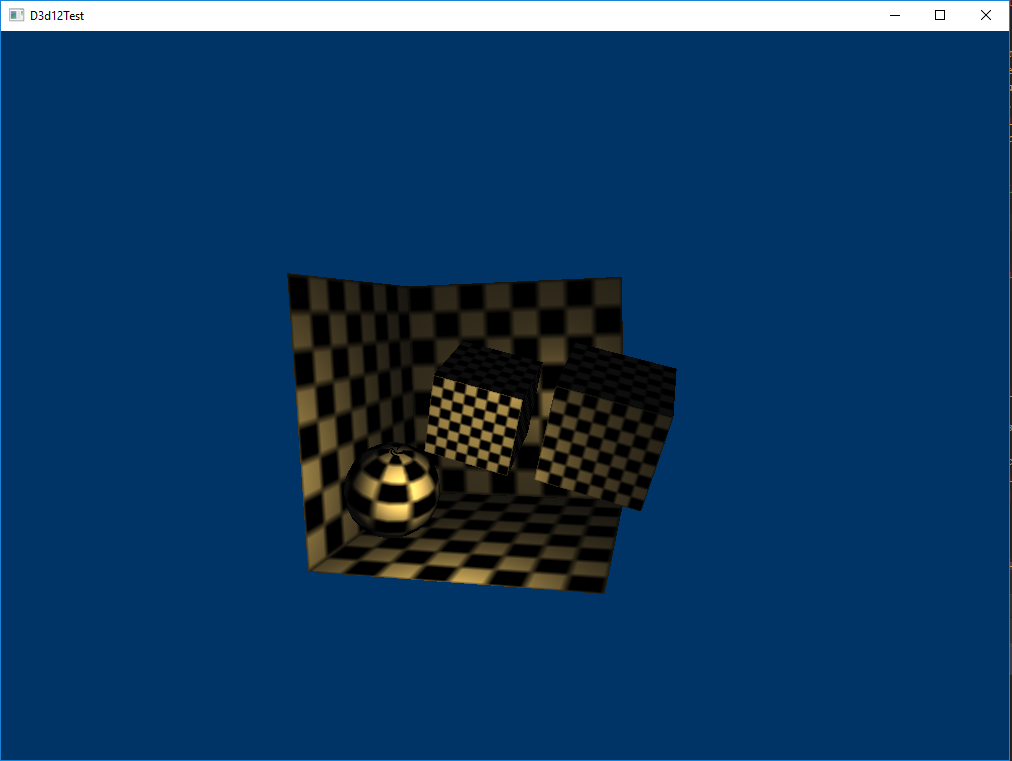
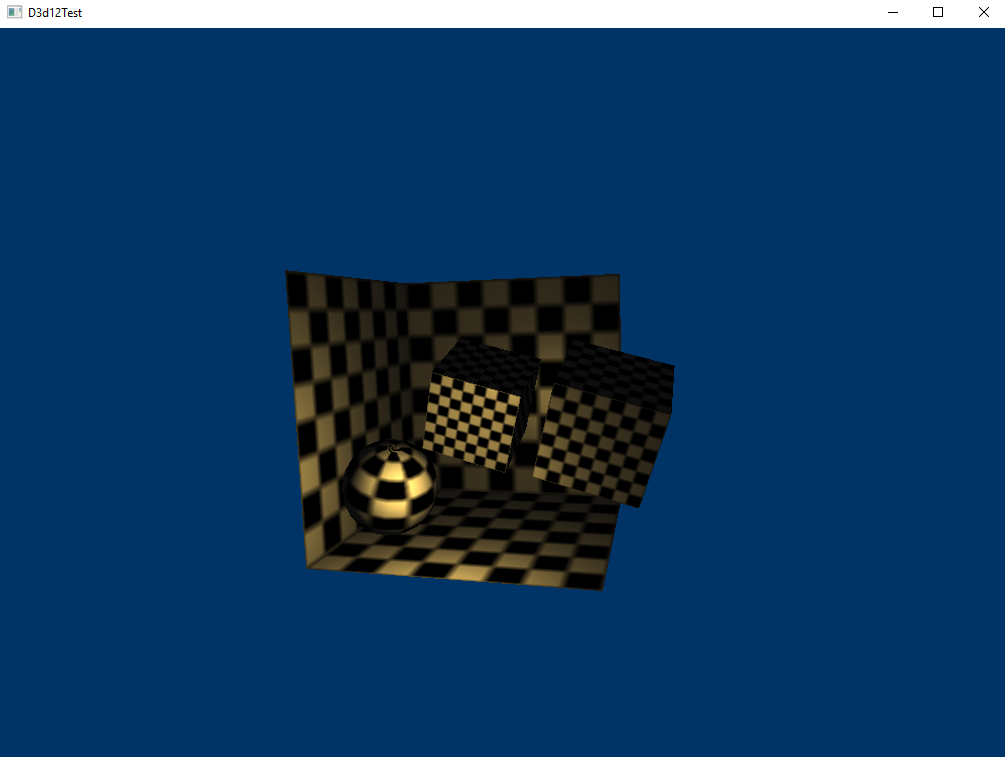
Added rBEA debugger portfolio modal. Updated Bachelor's thesis portfolio content. Fixed DirectX12Test image.

Changed region(s): [[0.0, 0.0, 1.0, 1.0], [0.3701, 0.4861, 0.6478, 0.6684]]

diff --git a/index.html b/index.html
@@ -193,6 +193,18 @@
             </div>
         </div>
 
+        <div class="col-sm-4 portfolio-item">
+            <div class="portfolio-link" href="#debugger" data-toggle="modal">
+                <div class="caption">
+                    <div class="caption-content">
+                        <i class="fa fa-search-plus fa-3x"></i>
+                    </div>
+                </div>
+                <img class="img-fluid" src="img/portfolio/debugger_400x400.png" alt="">
+            </a>
+        </div>
+    </div>
+
         </div>
       </div>
 
@@ -496,7 +508,41 @@
                             <p>I managed to simulate up to one million particles on the GPU before falling below a framerate of 60 frames per second. I also found that the number of particles scales really well
                               on the GPU.</p>
                             <p>The project was written from scratch in C++, particles were rendered in DirectX 11 and simulated in DirectCompute shaders.</p>
+                            <p>The following is an excerpt of the abstract of the thesis:</p>
+                            <p><i>
+                              Context: Fluid-particle systems are seldom used in games, the apparent performance costs of simulating a fluid-particle system discourages the developer to implement a system of such.
+                              The processing power delivered by a modern GPU enables the developer to implement complex particle systems such as fluid-particle systems.
+                              Writing efficient fluid-particle systems is the key when striving for real-time fluid-particle simulations with good scalability.
+                            </i></p>
+                            <p><i>
+                              Objectives: This thesis ultimately tries to provide the reader with a well-performing and scalable fluid-particle system simulated in real-time using a great number of particles.
+                              The fluid-particle system implements two different fluid physics models for diversity and comparison purposes.
+                              The fluid-particle system will then be measured for each fluid physics model and provide results to educate the reader on how well the performance of a fluid-particle system might
+                                scale with the increase of active particles in the simulation.
+                              Finally, a performance comparison of the particle scalability is made by completely excluding the fluid physics calculations and simulate the particles using only gravity as
+                                an affecting force to be able to demonstrate how taxing the fluid physics calculations are on the GPU.
+                              </i></p>
+                            <p><i>
+                              Methods: The fluid-particle system has been run using different simulation scenarios, where each scenario is defined by the amount of particles
+                              being active and the dimensions of our fluid particle simulation space.
+                              The performance results from each scenario has then been saved and put into a collection of results for a given simulation space.
+                            </i></p>
+                            <p><i>
+                              Results: The results presented demonstrate how well the fluid-particle system actually scales being run on a modern GPU.
+                              The system reached over a million particles while still running at an acceptable frame rate, for both of the fluid physics models.
+                              The results also shows that the performance is greatly reduced by simulating the particle system as a fluid-particle one, instead of only running it with gravity applied.
+                            </i></p>
+                            <p><i>
+                              Conclusions: With the results presented, we are able to conclude that fluid-particle systems scale well with the number of particles being active, while being run on a modern GPU.
+                              There are many optimizations to be done to be able to achieve a well-performing fluid-particle system, when developing fluid-particle system you
+                              should be wary of the many performance pitfalls that comes with it.
+                            </i></p>
+                            <p><i>
+                              Keywords: Fluid-particle system, GPGPU, DirectCompute, fluid physics model
+                            </i></p>
+
                             <p>The source code of this project can be found on my <a href="https://github.com/hyzor/BachelorsThesis">personal GitHub page</a>.</p>
+                            <p>The thesis can be found <a href="https://www.dropbox.com/s/thar5xmasfgd777/BTH2014Hansson%20Falkenby.pdf?dl=0">here</a>.</p>
                             <ul class="list-inline item-details">
                                 <li>Client:
                                     <strong><a href="https://www.bth.se/">Blekinge Institute of Technology</a>
@@ -690,7 +736,7 @@
                           <h2>DirectX 12 Test</h2>
                           <hr class="star-primary">
                           <img src="img/portfolio/DirectX12Test_window.PNG" class="img-fluid img-centered" alt="">
-                          <p>Source code can be found on my <a href="https://github.com/hyzor/DirectX12Test">personal GitHub page</a></p>
+                          <p>Source code can be found on my <a href="https://github.com/hyzor/DirectX12Test">personal GitHub page</a>.</p>
                           <ul class="list-inline item-details">
                               <li>Client:
                                   <strong><a href="">None</a>
@@ -712,6 +758,77 @@
           </div>
       </div>
   </div>
+</div>
+
+<div class="portfolio-modal modal fade" id="debugger" tabindex="-1" role="dialog" aria-hidden="true">
+  <div class="modal-dialog" role="document">
+    <div class="modal-content">
+      <div class="close-modal" data-dismiss="modal">
+            <div class="lr">
+                <div class="rl">
+                </div>
+            </div>
+        </div>
+        <div class="container">
+            <div class="row">
+                <div class="col-lg-12 col-lg-offset-2">
+                    <div class="modal-body">
+                        <h2>Master's thesis - Debugger</h2>
+                        <hr class="star-primary">
+                        <img src="img/portfolio/debugger.png" class="img-fluid img-centered" alt="">
+
+                        <p>The following is an excerpt from the abstract of the thesis:</p>
+                        <p><i>
+                          Debugging is a fundamental tool for software developers, it is therefore included in the majority of modern integrated development environments available today.
+                          When the capabilities of such debuggers are to be implemented in a debugging tool for a clustered, real-time stream processing system, the task becomes very complex.
+                          Knowledge on how to build debuggers for such systems is missing, and there is a need for these types of tools in the emerging real-time data stream processing industry.
+                         </i></p>
+
+                        <p><i>
+                          This thesis explores ways to implement and find usages of a debugging tool in a clustered, real-time processing environment.
+                          In previous research two papers were of particular interest as to form a basis for this thesis.
+                          However, these papers do not target real-time stream processing systems, so the knowledge gap still persists.
+                          It was found that these types of systems have extended requirements in addition to the functionality debuggers of today that has to be fulfilled.
+                        </i></p>
+
+                        <p><i>
+                          The first requirement found was that shared states has to be represented in some way in the tool, and multiple solutions were proposed.
+                          The second problem found was that the real-time data stream had to be integrated into the tool in one or more ways.
+                          This thesis has brought up two ways to solve it; stream generation and stream sampling.
+                          The last problem brought up came from the need for users to be able to debug fatal bugs that has crashed the system.
+                          Three solutions were proposed, and the concluded Monte Carlo solution builds upon the previous two problems.
+                        </i></p>
+
+                        <p><i>
+                          The thesis presents a special debugging protocol and a blueprint of a debugging tool, with implementation details included, for others to take inspiration from.
+                          Thus it fills in the missing knowledge gap and successfully achieves the goal of answering the question of how to implement a debugging tool for a clustered,
+                          real-time data stream processing system.
+                        </i></p>
+
+                        <p>Source code can be found on my <a href="https://github.com/hyzor/MastersThesis">personal GitHub page</a>.</p>
+
+                        <p>The thesis can be found <a href="https://www.dropbox.com/s/rzvpuv9sytzc17k/Thesis_FINAL_JesperHF.pdf?dl=0">here</a>.</p>
+                        <ul class="list-inline item-details">
+                            <li>Client:
+                                <strong><a href="https://king.com/">King</a>
+                                </strong>
+                            </li>
+                            <li>Date:
+                                <strong><a href="https://king.com/">February 2017</a>
+                                </strong>
+                            </li>
+                            <li>Service:
+                                <strong><a href="https://king.com/">Software Development</a>
+                                </strong>
+                            </li>
+                        </ul>
+                        <button class="btn btn-success" type="button" data-dismiss="modal"><i class="fa fa-times"></i> Close</button>
+                    </div>
+                </div>
+            </div>
+        </div>
+    </div>
+</div>
 </div>
 
     <!-- Bootstrap core JavaScript -->
